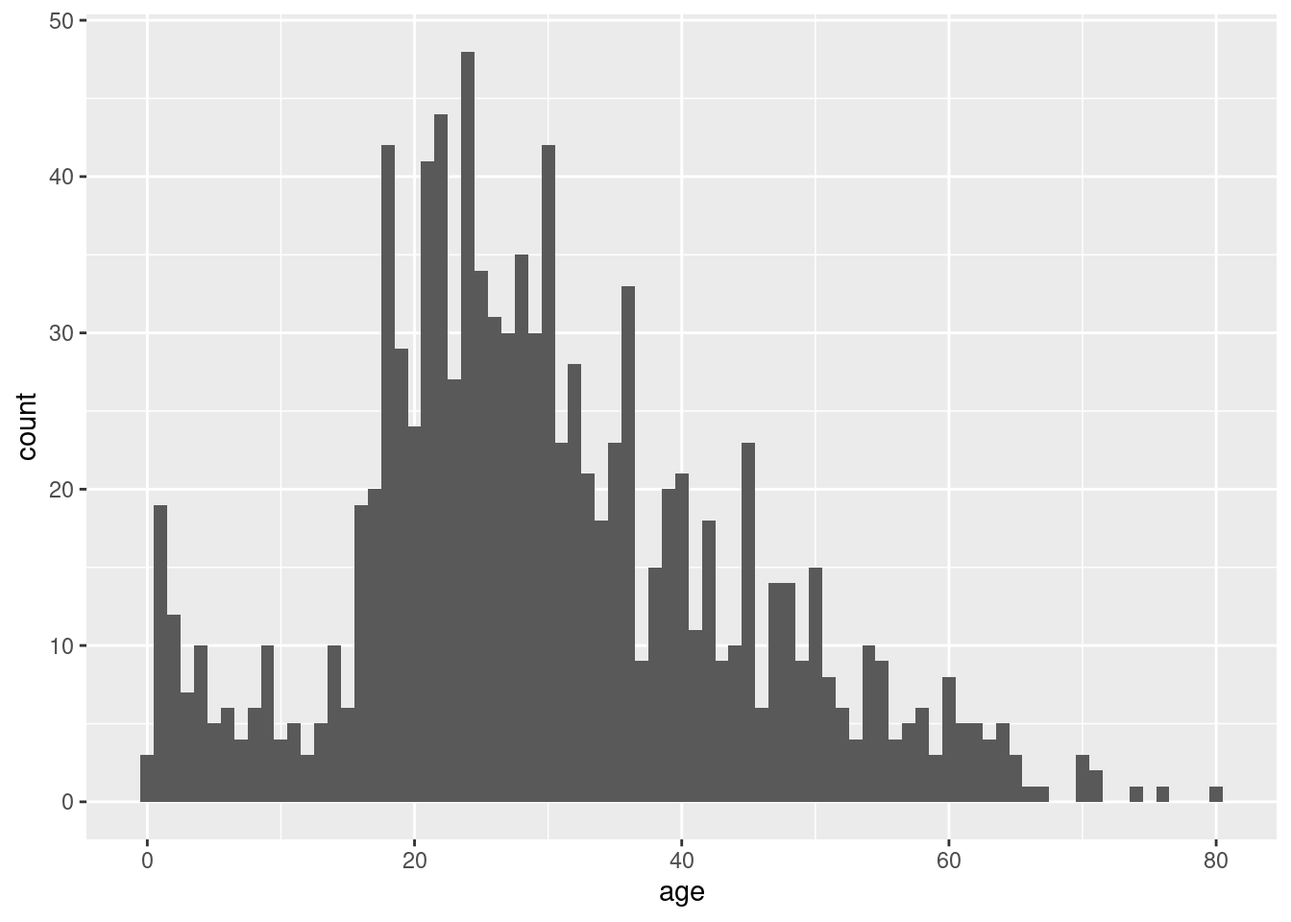
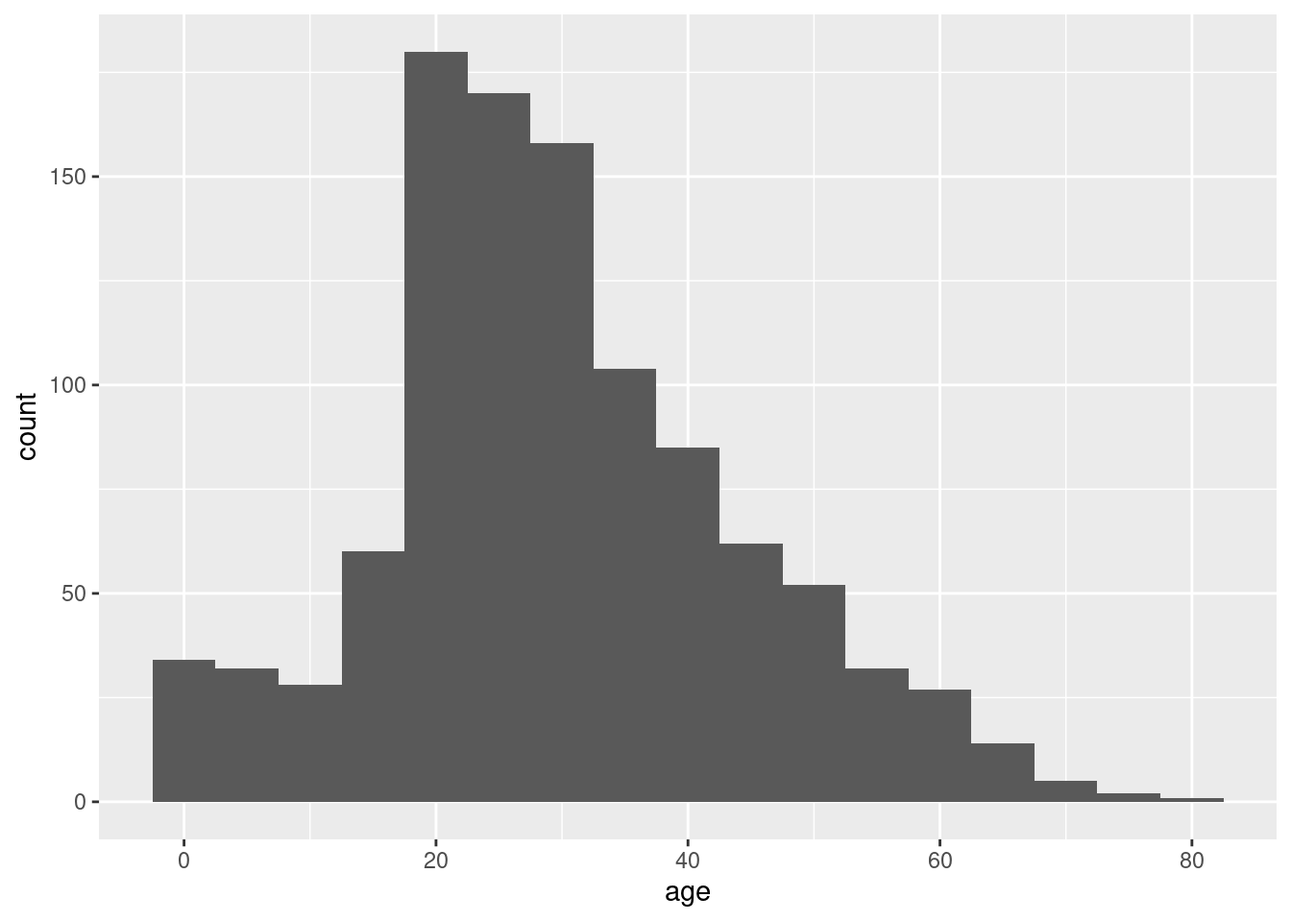
More updates to lab 1

diff --git a/docs/lab1.html b/docs/lab1.html
@@ -147,6 +147,7 @@ code span.wa { color: #60a0b0; font-weight: bold; font-style: italic; } /* Warni
 <li class="chapter" data-level="1.3.2" data-path="lab1.html"><a href="lab1.html#bar-charts"><i class="fa fa-check"></i><b>1.3.2</b> Bar charts</a></li>
 <li class="chapter" data-level="1.3.3" data-path="lab1.html"><a href="lab1.html#histograms"><i class="fa fa-check"></i><b>1.3.3</b> Histograms</a></li>
 </ul></li>
+<li class="chapter" data-level="1.4" data-path="lab1.html"><a href="lab1.html#wrap-up"><i class="fa fa-check"></i><b>1.4</b> Wrap-up</a></li>
 </ul></li>
 <li class="chapter" data-level="" data-path="references.html"><a href="references.html"><i class="fa fa-check"></i>References</a></li>
 <li class="divider"></li>
@@ -172,39 +173,41 @@ code span.wa { color: #60a0b0; font-weight: bold; font-style: italic; } /* Warni
 <div id="lab1" class="section level1" number="1">
 <h1><span class="header-section-number">Lab 1</span> Exploring Data with R</h1>
 <p><img src="img/titanic.png" width="100%" /></p>
-<p>In this session, we will learn a bit about data and how to look at it in <code>R</code>. This will largely involve copying and pasting code from this document into your own <code>RStudio</code> window and interpreting the results, though you will also have to make some tweaks to that code on your own. The big point is to get a feel for the power of the tools we will be learning to use in the rest of the semester.</p>
-<p>For most of what we will be doing, this document shows both the <code>R</code> code and, below it, the result that code is expected to produce. The questions you will need to answer for the accompanying assignment are presented as numbered footnotes.</p>
+<p>In this session, we will learn a bit about data and how to look at it in R. This will largely involve copying and pasting code from this document into your own RStudio window and interpreting the results, though you will also have to make some tweaks to that code on your own. The big point is to get a feel for the power of the tools we will be learning to use in the rest of the semester.</p>
+<p>For most of what we will be doing, this document shows both the R code and, below it, the result that code is expected to produce. The questions you will need to answer for the accompanying assignment are presented as numbered footnotes.</p>
 <p>Another big point is that even though statistics is about dealing with data, those data are <em>meaningful</em>. They are not just numbers or names, they are a peek into the world. They offer glimpses of someone’s life, of the workings of some natural process, of some social structure, etc. Any dataset will be limited in how wide of a glimpse it gives us, and the point of statistics is how to learn and make decisions based on that glimpse.</p>
 <p>The primary skills developed in this activity are:</p>
 <ol style="list-style-type: decimal">
-<li>Viewing data in <code>R</code></li>
+<li>Viewing data in R</li>
 <li>Making frequency tables</li>
 <li>Making bar charts</li>
 <li>Making histograms</li>
 </ol>
 <div id="r-and-rstudio" class="section level2" number="1.1">
 <h2><span class="header-section-number">1.1</span> R and RStudio</h2>
-<p>All of our labs will make use of <code>RStudio</code>, a graphical interface to the statistical computing language <code>R</code>. The <code>R</code> language represents the current state of the art in both academic and industrial research. It is likely to remain relevant for many years to come because it is free and open-source, meaning both that it is widely accessible and that improvements and extensions are relatively easy to make. In fact, many of the best features of <code>R</code> that we will be using are extensions made by people outside the “core” development team for <code>R</code>. These extensions are called “packages,” and they represent bundles of code that are useful for doing statistics.</p>
-<p><code>RStudio</code> makes it easier to work with the <code>R</code> language, and it is also free and can be installed on computers running any modern operating system (Windows, Mac, Linux, etc.). <code>RStudio</code> is already installed on the computers in the Technology-Enhanced Classrooms and the Library Public Computing Sites on campus. If you are working on your own computer, you will have an easier time of it if you install <code>RStudio</code> on it. Installing <code>RStudio</code> requires installing <code>R</code>, but you only need to do this once. Follow the installation instructions for <strong>RStudio Desktop</strong> here: <a href="https://rstudio.com/products/rstudio/download/" class="uri">https://rstudio.com/products/rstudio/download/</a></p>
-<p>You can also use <code>RStudio</code> in a browser! This way, even if you don’t have access to a computer with <code>RStudio</code> installed locally, you can use it if you have access to the internet. You can run <code>RStudio</code> online here: <a href="https://rstudio.cloud/" class="uri">https://rstudio.cloud/</a>. The downside with this is that there is a cap to the amount of time you can spend using the online version, so you are better off using a local installation whenever possible.</p>
+<p>All of our labs will make use of RStudio, a graphical interface to the statistical computing language R. The R language represents the current state of the art in both academic and industrial research. It is likely to remain relevant for many years to come because it is free and open-source, meaning both that it is widely accessible and that improvements and extensions are relatively easy to make. In fact, many of the best features of R that we will be using are extensions made by people outside the “core” development team for R. These extensions are called “packages,” and they represent bundles of code that are useful for doing statistics.</p>
+<p>RStudio makes it easier to work with the R language, and it is also free and can be installed on computers running any modern operating system (Windows, Mac, Linux, etc.). RStudio is already installed on the computers in the Technology-Enhanced Classrooms and the Library Public Computing Sites on campus. If you are working on your own computer, you will have an easier time of it if you install RStudio on it. Installing RStudio requires installing R, but you only need to do this once. Follow the installation instructions for <strong>RStudio Desktop</strong> here: <a href="https://rstudio.com/products/rstudio/download/" class="uri">https://rstudio.com/products/rstudio/download/</a></p>
+<p>You can also use RStudio in a browser! This way, even if you don’t have access to a computer with RStudio installed locally, you can use it if you have access to the internet. You can run RStudio online here: <a href="https://rstudio.cloud/" class="uri">https://rstudio.cloud/</a>. The downside with this is that there is a cap to the amount of time you can spend using the online version, so you are better off using a local installation whenever possible.</p>
 <p>This first lab will use the cloud version so we can jump right in. Access the first Lab here:</p>
 <p><a href="https://rstudio.cloud/project/2118415" class="uri">https://rstudio.cloud/project/2118415</a></p>
 <p>Note that you may need to create an account, but it is free to do so.</p>
 <!-- ## Tidyverse -->
-<!-- Once you have `RStudio` up and running, there's one more thing you need to do to make sure you can do the labs in the course.  Open up `RStudio`, paste the line below into your console, and hit enter: -->
+<!-- Once you have RStudio up and running, there's one more thing you need to do to make sure you can do the labs in the course.  Open up RStudio, paste the line below into your console, and hit enter: -->
 <!-- ```{r eval = FALSE} -->
 <!-- install.packages("tidyverse") -->
 <!-- ``` -->
-<!-- This will install a package called "tidyverse" that we will be using in class that will make `R` much more useful for us.  You only need to do this once on any particular computer, and it may already be installed.  If so, running this won't hurt, it'll just make sure you've got everything we need. -->
+<!-- This will install a package called "tidyverse" that we will be using in class that will make R much more useful for us.  You only need to do this once on any particular computer, and it may already be installed.  If so, running this won't hurt, it'll just make sure you've got everything we need. -->
 </div>
 <div id="meet-your-data" class="section level2" number="1.2">
 <h2><span class="header-section-number">1.2</span> Meet your data</h2>
 <p>The data we will be looking at are passenger records from the RMS <em>Titanic</em>, an oceanliner which famously sank on April 15, 1912. Though the liner was not filled to capacity, lax safety precautions—including a failure to carry enough lifeboats—meant that many of her passengers died because they were unable to evacuate when the ship struck an iceberg.</p>
 <!-- ### Load the data -->
 <!-- Open up a browser and head to the course Blackboard page.  Under the "Datasets" folder, you will find a file called "titanic.csv".  Download the file and make sure you take note of where you saved it. -->
-<!-- Make sure `RStudio` is running.  You can load the data into `RStudio` by going to **File** > **Import Dataset** > **From text (readr)...** and finding the "titanic.csv" file wherever you put it.  If you are doing this using the online version of `RStudio`, you will first have to **Upload** the file to your workspace using the "Files" panel on the right. -->
+<!-- Make sure RStudio is running.  You can load the data into RStudio by going to **File** > **Import Dataset** > **From text (readr)...** and finding the "titanic.csv" file wherever you put it.  If you are doing this using the online version of RStudio, you will first have to **Upload** the file to your workspace using the "Files" panel on the right. -->
 <div id="check-out-the-variables" class="section level3" number="1.2.1">
 <h3><span class="header-section-number">1.2.1</span> Check out the variables</h3>
+<p>This is what RStudio looks like (with some helpful colored labels):</p>
+<p><img src="img/rstudio_window.png" width="100%" /></p>
 <p>In the upper left of the RStudio screen, you’ll see a bunch of columns. These are our data in “raw” form. Each row represents a specific passenger and each column represents a different <em>variable</em>. Based on the names of each variable and the types of <em>values</em> it seems to take, can you figure out what each variable is? In other words, what does each column tell us about a person?<a href="#fn1" class="footnote-ref" id="fnref1"><sup>1</sup></a></p>
 </div>
 </div>
@@ -226,8 +229,8 @@ code span.wa { color: #60a0b0; font-weight: bold; font-style: italic; } /* Warni
 <p>We got a table that counted the frequency of males and females on the passenger list. We went from 1300 or so rows with multiple variables each to just two numbers. A pretty concise summary! But how did we do it? Let’s break down that bit of code:</p>
 <ul>
 <li><code>titanic</code> is our original dataset.</li>
-<li><code>group_by(sex)</code> tells <code>R</code> to group that dataset by sex.</li>
-<li><code>summarize(n=n())</code> tells <code>R</code> to take our grouped dataset and <em>summarize</em> it by counting the <code>n</code>umber of people in each group and labeling the resulting number “<code>n</code>.”</li>
+<li><code>group_by(sex)</code> tells R to group that dataset by sex.</li>
+<li><code>summarize(n=n())</code> tells R to take our grouped dataset and <em>summarize</em> it by counting the <code>n</code>umber of people in each group and labeling the resulting number “<code>n</code>.”</li>
 <li>The funky symbol <code>%&gt;%</code> connects the three steps above and makes sure R does them in the order we want.</li>
 </ul>
 <p>Let’s try a few things to get a sense of why that code did what it did. What happens if we change <code>n = n()</code> in the last line to <code>Number = n()</code>?</p>
@@ -248,7 +251,7 @@ code span.wa { color: #60a0b0; font-weight: bold; font-style: italic; } /* Warni
 ## x could not find function &quot;m&quot;
 ## ℹ Input `n` is `m()`.
 ## ℹ The error occurred in group 1: sex = &quot;Female&quot;.</code></pre>
-<p><code>R</code> doesn’t like it! It reports an error because it doesn’t know what to do with <code>m()</code>. That’s because <code>n()</code> is a <strong>function</strong>, it is an instruction that tells <code>R</code> to count the <code>n</code>umber of something. On the other hand, <code>m()</code> doesn’t mean anything to <code>R</code> so it throws up its hands.</p>
+<p>R doesn’t like it! It reports an error because it doesn’t know what to do with <code>m()</code>. That’s because <code>n()</code> is a <strong>function</strong>, it is an instruction that tells R to count the <code>n</code>umber of something. On the other hand, <code>m()</code> doesn’t mean anything to R so it throws up its hands.</p>
 <p>We saw that we know not just the sex of each passenger, the “residence” variable tells us whether each person is American, British, or something else. Let’s modify our code to get a frequency table for country of residence instead of sex:</p>
 <div class="sourceCode" id="cb7"><pre class="sourceCode r"><code class="sourceCode r"><span id="cb7-1"><a href="lab1.html#cb7-1" aria-hidden="true" tabindex="-1"></a>titanic <span class="sc">%&gt;%</span></span>
 <span id="cb7-2"><a href="lab1.html#cb7-2" aria-hidden="true" tabindex="-1"></a>  <span class="fu">group_by</span>(residence) <span class="sc">%&gt;%</span></span>
@@ -265,7 +268,7 @@ code span.wa { color: #60a0b0; font-weight: bold; font-style: italic; } /* Warni
 <span id="cb9-3"><a href="lab1.html#cb9-3" aria-hidden="true" tabindex="-1"></a>  <span class="fu">summarize</span>(<span class="at">n =</span> <span class="fu">n</span>())</span></code></pre></div>
 <pre><code>## Error: Must group by variables found in `.data`.
 ## * Column `degree` is not found.</code></pre>
-<p>No dice! <code>R</code> tells us that it can’t find a column labeled “degree,” and indeed, there is no such variable in our data since it was not recorded. This illustrates that the variable in the parens in the <code>group_by</code> line can’t be just anything, it has to be the name of a variable (spelled exactly the same!) that exists in our data.</p>
+<p>No dice! R tells us that it can’t find a column labeled “degree,” and indeed, there is no such variable in our data since it was not recorded. This illustrates that the variable in the parens in the <code>group_by</code> line can’t be just anything, it has to be the name of a variable (spelled exactly the same!) that exists in our data.</p>
 <p>Finally, let’s construct a frequency table using multiple variables at once. This lets us answer questions like, <strong>how many British women were aboard the <em>Titanic</em></strong>? We can put multiple variables in the <code>group_by</code> line:</p>
 <div class="sourceCode" id="cb11"><pre class="sourceCode r"><code class="sourceCode r"><span id="cb11-1"><a href="lab1.html#cb11-1" aria-hidden="true" tabindex="-1"></a>titanic <span class="sc">%&gt;%</span></span>
 <span id="cb11-2"><a href="lab1.html#cb11-2" aria-hidden="true" tabindex="-1"></a>  <span class="fu">group_by</span>(residence, sex) <span class="sc">%&gt;%</span></span>
@@ -309,7 +312,7 @@ code span.wa { color: #60a0b0; font-weight: bold; font-style: italic; } /* Warni
 <div class="sourceCode" id="cb17"><pre class="sourceCode r"><code class="sourceCode r"><span id="cb17-1"><a href="lab1.html#cb17-1" aria-hidden="true" tabindex="-1"></a>titanic <span class="sc">%&gt;%</span></span>
 <span id="cb17-2"><a href="lab1.html#cb17-2" aria-hidden="true" tabindex="-1"></a>  <span class="fu">ggplot</span>(<span class="fu">aes</span>(<span class="at">x =</span> class)) <span class="sc">+</span></span>
 <span id="cb17-3"><a href="lab1.html#cb17-3" aria-hidden="true" tabindex="-1"></a>  <span class="fu">geom_bar</span>()</span></code></pre></div>
-<p><img src="01-exploring_files/figure-html/unnamed-chunk-10-1.png" width="672" /></p>
+<p><img src="01-exploring_files/figure-html/unnamed-chunk-11-1.png" width="672" /></p>
 <p>Pretty neat! It is now easy to see how much more 3rd class passengers there are than 1st or 2nd, and that interestingly, there are fewer 2nd class than 1st class passengers<a href="#fn5" class="footnote-ref" id="fnref5"><sup>5</sup></a>. Notice that the code we used is similar to what we’ve been using, but differs in some important ways:</p>
 <ul>
 <li>The first line is the same, telling R what dataset we are using (<code>titanic</code>).</li>
@@ -346,7 +349,7 @@ code span.wa { color: #60a0b0; font-weight: bold; font-style: italic; } /* Warni
 <span id="cb20-3"><a href="lab1.html#cb20-3" aria-hidden="true" tabindex="-1"></a>  <span class="fu">geom_histogram</span>()</span></code></pre></div>
 <pre><code>## `stat_bin()` using `bins = 30`. Pick better value with `binwidth`.</code></pre>
 <pre><code>## Warning: Removed 263 rows containing non-finite values (stat_bin).</code></pre>
-<p><img src="01-exploring_files/figure-html/unnamed-chunk-12-1.png" width="672" /></p>
+<p><img src="01-exploring_files/figure-html/unnamed-chunk-13-1.png" width="672" /></p>
 <p>The resulting histogram shows a bunch of bars, the height of which indicate the number of passengers within a particular age range.<a href="#fn6" class="footnote-ref" id="fnref6"><sup>6</sup></a></p>
 <p>Notice that we got a couple messages from R in addition to our plot, one about “non-finite values” and another about “picking a better value.” When R says, “non-finite values,” it is talking about people for whom their age was not recorded. This is an unfortunate thing about real data: sometimes it has missing pieces. This didn’t stop R from making the plot we wanted using the non-missing data, but R wanted to warn us just in case.</p>
 <p>The message about “picking a better value” is important: When you make a histogram, you are looking at how many things fall within a particular range of values, say, between ages 4 and 8. How do you decide those ranges? If you don’t tell R how to do that, it will decide on its own to divide up the range of values into 30 “bins,” each of which corresponds to a range of values that is the same width. This is usually not what we want.</p>
@@ -355,16 +358,25 @@ code span.wa { color: #60a0b0; font-weight: bold; font-style: italic; } /* Warni
 <span id="cb23-2"><a href="lab1.html#cb23-2" aria-hidden="true" tabindex="-1"></a>  <span class="fu">ggplot</span>(<span class="fu">aes</span>(<span class="at">x =</span> age)) <span class="sc">+</span></span>
 <span id="cb23-3"><a href="lab1.html#cb23-3" aria-hidden="true" tabindex="-1"></a>  <span class="fu">geom_histogram</span>(<span class="at">binwidth =</span> <span class="dv">5</span>)</span></code></pre></div>
 <pre><code>## Warning: Removed 263 rows containing non-finite values (stat_bin).</code></pre>
-<p><img src="01-exploring_files/figure-html/unnamed-chunk-13-1.png" width="672" /></p>
+<p><img src="01-exploring_files/figure-html/unnamed-chunk-14-1.png" width="672" /></p>
 <p>Here’s what it looks like when we set the width of each bin to be just 1 year<a href="#fn7" class="footnote-ref" id="fnref7"><sup>7</sup></a>:</p>
 <pre><code>## Warning: Removed 263 rows containing non-finite values (stat_bin).</code></pre>
-<p><img src="01-exploring_files/figure-html/unnamed-chunk-14-1.png" width="672" /></p>
+<p><img src="01-exploring_files/figure-html/unnamed-chunk-15-1.png" width="672" /></p>
 <p>And here’s what it looks like when we set the width of each bin to be 10 years<a href="#fn8" class="footnote-ref" id="fnref8"><sup>8</sup></a>:</p>
 <pre><code>## Warning: Removed 263 rows containing non-finite values (stat_bin).</code></pre>
-<p><img src="01-exploring_files/figure-html/unnamed-chunk-15-1.png" width="672" /></p>
+<p><img src="01-exploring_files/figure-html/unnamed-chunk-16-1.png" width="672" /></p>
 <p>Choosing different bin widths makes the resulting histogram look very different. There is not necessarily one “right” answer, so being able to quickly see the differences between different histograms makes R very handy.<a href="#fn9" class="footnote-ref" id="fnref9"><sup>9</sup></a></p>
-
 </div>
+</div>
+<div id="wrap-up" class="section level2" number="1.4">
+<h2><span class="header-section-number">1.4</span> Wrap-up</h2>
+<p>Today we began our adventure by using RStudio to explore some data. We saw how to look at data and how to summarize it in various helpful ways. These were frequency tables, bar charts, and histograms.</p>
+<ul>
+<li>Frequency tables count the number of times a particular value of a particular variable (or combination of values across multiple variables) occurs in our dataset.</li>
+<li>Bar charts display those counts in a visual form that makes it easier to compare frequencies.</li>
+<li>Histograms let us visually summarize counts of continuous variables by putting them in “bins,” the width of which we need to decide.</li>
+</ul>
+
 </div>
 </div>
 <div class="footnotes">

diff --git a/docs/01-exploring.md b/docs/01-exploring.md
@@ -4,26 +4,26 @@
 
 <img src="img/titanic.png" width="100%" />
 
-In this session, we will learn a bit about data and how to look at it in `R`.  This will largely involve copying and pasting code from this document into your own `RStudio` window and interpreting the results, though you will also have to make some tweaks to that code on your own.  The big point is to get a feel for the power of the tools we will be learning to use in the rest of the semester.
+In this session, we will learn a bit about data and how to look at it in R.  This will largely involve copying and pasting code from this document into your own RStudio window and interpreting the results, though you will also have to make some tweaks to that code on your own.  The big point is to get a feel for the power of the tools we will be learning to use in the rest of the semester.
 
-For most of what we will be doing, this document shows both the `R` code and, below it, the result that code is expected to produce.  The questions you will need to answer for the accompanying assignment are presented as numbered footnotes.
+For most of what we will be doing, this document shows both the R code and, below it, the result that code is expected to produce.  The questions you will need to answer for the accompanying assignment are presented as numbered footnotes.
 
 Another big point is that even though statistics is about dealing with data, those data are *meaningful*.  They are not just numbers or names, they are a peek into the world.  They offer glimpses of someone's life, of the workings of some natural process, of some social structure, etc.  Any dataset will be limited in how wide of a glimpse it gives us, and the point of statistics is how to learn and make decisions based on that glimpse.
 
 The primary skills developed in this activity are:
 
-1. Viewing data in `R`
+1. Viewing data in R
 2. Making frequency tables
 3. Making bar charts
 4. Making histograms
 
 ## R and RStudio
 
-All of our labs will make use of `RStudio`, a graphical interface to the statistical computing language `R`.  The `R` language represents the current state of the art in both academic and industrial research.  It is likely to remain relevant for many years to come because it is free and open-source, meaning both that it is widely accessible and that improvements and extensions are relatively easy to make.  In fact, many of the best features of `R` that we will be using are extensions made by people outside the "core" development team for `R`.  These extensions are called "packages", and they represent bundles of code that are useful for doing statistics.
+All of our labs will make use of RStudio, a graphical interface to the statistical computing language R.  The R language represents the current state of the art in both academic and industrial research.  It is likely to remain relevant for many years to come because it is free and open-source, meaning both that it is widely accessible and that improvements and extensions are relatively easy to make.  In fact, many of the best features of R that we will be using are extensions made by people outside the "core" development team for R.  These extensions are called "packages", and they represent bundles of code that are useful for doing statistics.
 
-`RStudio` makes it easier to work with the `R` language, and it is also free and can be installed on computers running any modern operating system (Windows, Mac, Linux, etc.).  `RStudio` is already installed on the computers in the Technology-Enhanced Classrooms and the Library Public Computing Sites on campus.  If you are working on your own computer, you will have an easier time of it if you install `RStudio` on it.  Installing `RStudio` requires installing `R`, but you only need to do this once.  Follow the installation instructions for **RStudio Desktop** here: <https://rstudio.com/products/rstudio/download/>
+RStudio makes it easier to work with the R language, and it is also free and can be installed on computers running any modern operating system (Windows, Mac, Linux, etc.).  RStudio is already installed on the computers in the Technology-Enhanced Classrooms and the Library Public Computing Sites on campus.  If you are working on your own computer, you will have an easier time of it if you install RStudio on it.  Installing RStudio requires installing R, but you only need to do this once.  Follow the installation instructions for **RStudio Desktop** here: <https://rstudio.com/products/rstudio/download/>
 
-You can also use `RStudio` in a browser!  This way, even if you don't have access to a computer with `RStudio` installed locally, you can use it if you have access to the internet.  You can run `RStudio` online here: <https://rstudio.cloud/>.  The downside with this is that there is a cap to the amount of time you can spend using the online version, so you are better off using a local installation whenever possible.
+You can also use RStudio in a browser!  This way, even if you don't have access to a computer with RStudio installed locally, you can use it if you have access to the internet.  You can run RStudio online here: <https://rstudio.cloud/>.  The downside with this is that there is a cap to the amount of time you can spend using the online version, so you are better off using a local installation whenever possible.
 
 This first lab will use the cloud version so we can jump right in.  Access the first Lab here:
 
@@ -33,13 +33,13 @@ Note that you may need to create an account, but it is free to do so.
 
 <!-- ## Tidyverse -->
 
-<!-- Once you have `RStudio` up and running, there's one more thing you need to do to make sure you can do the labs in the course.  Open up `RStudio`, paste the line below into your console, and hit enter: -->
+<!-- Once you have RStudio up and running, there's one more thing you need to do to make sure you can do the labs in the course.  Open up RStudio, paste the line below into your console, and hit enter: -->
 
 <!-- ```{r eval = FALSE} -->
 <!-- install.packages("tidyverse") -->
 <!-- ``` -->
 
-<!-- This will install a package called "tidyverse" that we will be using in class that will make `R` much more useful for us.  You only need to do this once on any particular computer, and it may already be installed.  If so, running this won't hurt, it'll just make sure you've got everything we need. -->
+<!-- This will install a package called "tidyverse" that we will be using in class that will make R much more useful for us.  You only need to do this once on any particular computer, and it may already be installed.  If so, running this won't hurt, it'll just make sure you've got everything we need. -->
 
 ## Meet your data
 
@@ -49,9 +49,13 @@ The data we will be looking at are passenger records from the RMS *Titanic*, an 
 
 <!-- Open up a browser and head to the course Blackboard page.  Under the "Datasets" folder, you will find a file called "titanic.csv".  Download the file and make sure you take note of where you saved it. -->
 
-<!-- Make sure `RStudio` is running.  You can load the data into `RStudio` by going to **File** > **Import Dataset** > **From text (readr)...** and finding the "titanic.csv" file wherever you put it.  If you are doing this using the online version of `RStudio`, you will first have to **Upload** the file to your workspace using the "Files" panel on the right. -->
+<!-- Make sure RStudio is running.  You can load the data into RStudio by going to **File** > **Import Dataset** > **From text (readr)...** and finding the "titanic.csv" file wherever you put it.  If you are doing this using the online version of RStudio, you will first have to **Upload** the file to your workspace using the "Files" panel on the right. -->
 
 ### Check out the variables
+
+This is what RStudio looks like (with some helpful colored labels):
+
+<img src="img/rstudio_window.png" width="100%" />
 
 In the upper left of the RStudio screen, you'll see a bunch of columns.  These are our data in "raw" form.  Each row represents a specific passenger and each column represents a different *variable*.  Based on the names of each variable and the types of *values* it seems to take, can you figure out what each variable is?  In other words, what does each column tell us about a person?^[For each variable in the dataset, say whether it is a) Discrete or Continuous; b) what scale it is measured on (nominal, ordinal, interval, or ratio); and c) what you think it means based on the name of the variable and/or what values it takes.]
 
@@ -83,8 +87,8 @@ titanic %>%
 We got a table that counted the frequency of males and females on the passenger list.  We went from 1300 or so rows with multiple variables each to just two numbers.  A pretty concise summary!  But how did we do it?  Let's break down that bit of code:
 
 * `titanic` is our original dataset.
-* `group_by(sex)` tells `R` to group that dataset by sex.
-* `summarize(n=n())` tells `R` to take our grouped dataset and *summarize* it by counting the `n`umber of people in each group and labeling the resulting number "`n`".
+* `group_by(sex)` tells R to group that dataset by sex.
+* `summarize(n=n())` tells R to take our grouped dataset and *summarize* it by counting the `n`umber of people in each group and labeling the resulting number "`n`".
 * The funky symbol `%>%` connects the three steps above and makes sure R does them in the order we want.
 
 Let's try a few things to get a sense of why that code did what it did.  What happens if we change `n = n()` in the last line to `Number = n()`?
@@ -122,7 +126,7 @@ titanic %>%
 ## ℹ The error occurred in group 1: sex = "Female".
 ```
 
-`R` doesn't like it!  It reports an error because it doesn't know what to do with `m()`.  That's because `n()` is a **function**, it is an instruction that tells `R` to count the `n`umber of something.  On the other hand, `m()` doesn't mean anything to `R` so it throws up its hands.
+R doesn't like it!  It reports an error because it doesn't know what to do with `m()`.  That's because `n()` is a **function**, it is an instruction that tells R to count the `n`umber of something.  On the other hand, `m()` doesn't mean anything to R so it throws up its hands.
 
 We saw that we know not just the sex of each passenger, the "residence" variable tells us whether each person is American, British, or something else.  Let's modify our code to get a frequency table for country of residence instead of sex:
 
@@ -156,7 +160,7 @@ titanic %>%
 ## * Column `degree` is not found.
 ```
 
-No dice!  `R` tells us that it can't find a column labeled "degree", and indeed, there is no such variable in our data since it was not recorded.  This illustrates that the variable in the parens in the `group_by` line can't be just anything, it has to be the name of a variable (spelled exactly the same!) that exists in our data.
+No dice!  R tells us that it can't find a column labeled "degree", and indeed, there is no such variable in our data since it was not recorded.  This illustrates that the variable in the parens in the `group_by` line can't be just anything, it has to be the name of a variable (spelled exactly the same!) that exists in our data.
 
 Finally, let's construct a frequency table using multiple variables at once.  This lets us answer questions like, **how many British women were aboard the _Titanic_**?  We can put multiple variables in the `group_by` line:
 
@@ -231,7 +235,7 @@ titanic %>%
   geom_bar()
 ```
 
-<img src="01-exploring_files/figure-html/unnamed-chunk-10-1.png" width="672" />
+<img src="01-exploring_files/figure-html/unnamed-chunk-11-1.png" width="672" />
 
 Pretty neat!  It is now easy to see how much more 3rd class passengers there are than 1st or 2nd, and that interestingly, there are fewer 2nd class than 1st class passengers^[What about the bar chart conveys the same information as the frequency table?  In other words, what is the visual aspect of the bar chart that represents the numbers in the table?].  Notice that the code we used is similar to what we've been using, but differs in some important ways:
 
@@ -289,7 +293,7 @@ titanic %>%
 ## Warning: Removed 263 rows containing non-finite values (stat_bin).
 ```
 
-<img src="01-exploring_files/figure-html/unnamed-chunk-12-1.png" width="672" />
+<img src="01-exploring_files/figure-html/unnamed-chunk-13-1.png" width="672" />
 
 The resulting histogram shows a bunch of bars, the height of which indicate the number of passengers within a particular age range.^[Compare the code we used to make a histogram to what we used to make a bar chart above.  What is different between them?]
 
@@ -310,7 +314,7 @@ titanic %>%
 ## Warning: Removed 263 rows containing non-finite values (stat_bin).
 ```
 
-<img src="01-exploring_files/figure-html/unnamed-chunk-13-1.png" width="672" />
+<img src="01-exploring_files/figure-html/unnamed-chunk-14-1.png" width="672" />
 
 Here's what it looks like when we set the width of each bin to be just 1 year^[What code would produce this plot?]:
 
@@ -319,7 +323,7 @@ Here's what it looks like when we set the width of each bin to be just 1 year^[W
 ## Warning: Removed 263 rows containing non-finite values (stat_bin).
 ```
 
-<img src="01-exploring_files/figure-html/unnamed-chunk-14-1.png" width="672" />
+<img src="01-exploring_files/figure-html/unnamed-chunk-15-1.png" width="672" />
 
 And here's what it looks like when we set the width of each bin to be 10 years^[What code would produce this plot?]:
 
@@ -328,6 +332,14 @@ And here's what it looks like when we set the width of each bin to be 10 years^[
 ## Warning: Removed 263 rows containing non-finite values (stat_bin).
 ```
 
-<img src="01-exploring_files/figure-html/unnamed-chunk-15-1.png" width="672" />
+<img src="01-exploring_files/figure-html/unnamed-chunk-16-1.png" width="672" />
 
 Choosing different bin widths makes the resulting histogram look very different.  There is not necessarily one "right" answer, so being able to quickly see the differences between different histograms makes R very handy.^[What bin width do you think makes the best histogram for passenger ages?  Why?  Do you think different bin widths might be better in different circumstances?]
+
+## Wrap-up
+
+Today we began our adventure by using RStudio to explore some data.  We saw how to look at data and how to summarize it in various helpful ways.  These were frequency tables, bar charts, and histograms.
+
+* Frequency tables count the number of times a particular value of a particular variable (or combination of values across multiple variables) occurs in our dataset.
+* Bar charts display those counts in a visual form that makes it easier to compare frequencies.
+* Histograms let us visually summarize counts of continuous variables by putting them in "bins", the width of which we need to decide.
